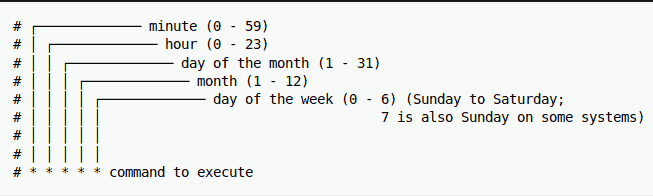
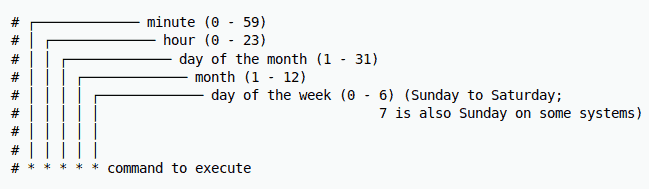
Deploying to gh-pages from @ 2425-5bhif-wmc/01-referate-oliver-420@3ef59f81ffe44e45f590109b965bc49a3b232082 🚀

Changed region(s): [[0.0, 0.0794, 1.0, 0.9259], [0.0, 0.0, 1.0, 0.0265], [0.3698, 0.0794, 0.4314, 0.1587]]

diff --git a/index.html b/index.html
@@ -578,12 +578,11 @@ pre.rouge .gs {
 </li>
 <li><a href="#_cron_jobs">2. Cron jobs</a>
 <ul class="sectlevel2">
-<li><a href="#_definition">2.1. Definition</a></li>
-<li><a href="#_typische_anwendungsfälle">2.2. Typische Anwendungsfälle</a></li>
+<li><a href="#_was_ist_das">2.1. Was ist das?</a></li>
+<li><a href="#_wie_funktionieren_cron_jobs">2.2. Wie funktionieren Cron jobs?</a></li>
 <li><a href="#_vorteile_nachteile">2.3. Vorteile &amp; Nachteile</a></li>
-<li><a href="#_funktionsweise">2.4. Funktionsweise</a></li>
+<li><a href="#_typische_anwendungsfälle">2.4. Typische Anwendungsfälle</a></li>
 <li><a href="#_cronjob_syntax">2.5. Cronjob Syntax</a></li>
-<li><a href="#_beispiele">2.6. Beispiele</a></li>
 </ul>
 </li>
 <li><a href="#_cronjobs_und_postgresql">3. Cronjobs und PostgreSQL</a>
@@ -909,7 +908,7 @@ Andere Formate können mit der Option <code>-F</code> angegeben werden.
 <h2 id="_cron_jobs"><a class="anchor" href="#_cron_jobs"></a>2. Cron jobs</h2>
 <div class="sectionbody">
 <div class="sect2">
-<h3 id="_definition"><a class="anchor" href="#_definition"></a>2.1. Definition</h3>
+<h3 id="_was_ist_das"><a class="anchor" href="#_was_ist_das"></a>2.1. Was ist das?</h3>
 <div class="paragraph">
 <p>Cron-Jobs sind zeitgesteuerte Aufgaben, die auf Unix- oder Linux-Systemen im Hintergrund automatisch ausgeführt werden.
 Sie werden über den Cron-Dienst verwaltet und können so konfiguriert werden, dass sie Skripte, Befehle oder Programme
@@ -918,45 +917,57 @@ die Crontab-Datei.</p>
 </div>
 </div>
 <div class="sect2">
-<h3 id="_typische_anwendungsfälle"><a class="anchor" href="#_typische_anwendungsfälle"></a>2.2. Typische Anwendungsfälle</h3>
+<h3 id="_wie_funktionieren_cron_jobs"><a class="anchor" href="#_wie_funktionieren_cron_jobs"></a>2.2. Wie funktionieren Cron jobs?</h3>
 <div class="ulist">
 <ul>
 <li>
-<p>Automatisierte Backups</p>
+<p>Crontab-Dateien</p>
 <div class="ulist">
 <ul>
 <li>
-<p>Regelmäßiges Sichern von Datenbanken, Dateien oder Servern.</p>
+<p>Diese Dateien sind die 'Konfiguration' für Cron-Jobs.</p>
+</li>
+<li>
+<p>Jeder Benutzer hat eine Crontab-Datei, in der die einzelnen Aufgaben definiert werden.</p>
 </li>
 </ul>
 </div>
 </li>
 <li>
-<p>Systemwartung</p>
+<p>Cron-Dienst</p>
 <div class="ulist">
 <ul>
 <li>
-<p>Aufgaben wie das Leeren von temporären Dateien, das Rotieren von Logs oder das Aktualisieren von Paketen.</p>
+<p>Ein Cron-Daemon läuft die ganze Zeit im Hintergrund und überwacht die Crontab-Dateien aller Benutzer.</p>
+</li>
+<li>
+<p>Dieser Daemon führt die definierten Aufgaben zum gegebenen Zeitplan aus.</p>
 </li>
 </ul>
 </div>
 </li>
 <li>
-<p>Datenverarbeitung</p>
+<p>Zeitangaben</p>
 <div class="ulist">
 <ul>
 <li>
-<p>Verarbeitung oder Synchronisierung von Daten wie das Abrufen von APIs, das Erstellen von Log-Daten oder das Generieren von Berichten.</p>
+<p>Die verwendete Zeit von Cron ist die des Systems, auf dem es läuft.</p>
+</li>
+<li>
+<p>Cron überprüft minütlich, ob eine Aufgabe ausgeführt werden muss.</p>
 </li>
 </ul>
 </div>
 </li>
 <li>
-<p>Benachrichtigungen</p>
+<p>Ausführung</p>
 <div class="ulist">
 <ul>
 <li>
-<p>Versenden von Erinnerungen, Alerts oder Zusammenfassungen.</p>
+<p>Befehle oder Skripts werden zur festgelegten Zeit oder in festgelegten Intervallen ausgeführt.</p>
+</li>
+<li>
+<p>Die Ausgabe kann man in einer Log-Datei speichern oder per E-Mail versenden, sofern konfiguriert.</p>
 </li>
 </ul>
 </div>
@@ -966,6 +977,10 @@ die Crontab-Datei.</p>
 </div>
 <div class="sect2">
 <h3 id="_vorteile_nachteile"><a class="anchor" href="#_vorteile_nachteile"></a>2.3. Vorteile &amp; Nachteile</h3>
+<div class="paragraph">
+<p>Cron-Jobs sind das A&amp;O für die Automatisierung von Aufgaben, jedoch gibt es neben den
+zahlreichen Vorteilen auch einige Nachteile.</p>
+</div>
 <div class="sect3">
 <h4 id="_vorteile"><a class="anchor" href="#_vorteile"></a>2.3.1. Vorteile</h4>
 <div class="ulist">
@@ -1062,57 +1077,48 @@ die Crontab-Datei.</p>
 </div>
 </div>
 <div class="sect2">
-<h3 id="_funktionsweise"><a class="anchor" href="#_funktionsweise"></a>2.4. Funktionsweise</h3>
+<h3 id="_typische_anwendungsfälle"><a class="anchor" href="#_typische_anwendungsfälle"></a>2.4. Typische Anwendungsfälle</h3>
+<div class="paragraph">
+<p>Cron Jobs werden beinahe überall eingesetzt, wo regelmäßige oder zeitgesteuerte Aufgaben anfallen, wie zum Beispiel:</p>
+</div>
 <div class="ulist">
 <ul>
 <li>
-<p>Cron-Dienst</p>
+<p>Automatisierte Backups</p>
 <div class="ulist">
 <ul>
 <li>
-<p>Ein Cron-Daemon läuft die ganze Zeit im Hintergrund und überwacht die Crontab-Dateien aller Benutzer.</p>
-</li>
-<li>
-<p>Dieser Daemon führt die definierten Aufgaben zum gegebenen Zeitplan aus.</p>
+<p>Regelmäßiges Sichern von Datenbanken, Dateien oder Servern.</p>
 </li>
 </ul>
 </div>
 </li>
 <li>
-<p>Crontab-Dateien</p>
+<p>Systemwartung</p>
 <div class="ulist">
 <ul>
 <li>
-<p>Diese Dateien sind die 'Konfiguration' für Cron-Jobs.</p>
-</li>
-<li>
-<p>Jeder Benutzer hat eine Crontab-Datei, in der die einzelnen Aufgaben definiert werden.</p>
+<p>Aufgaben wie das Leeren von temporären Dateien, das Rotieren von Logs oder das Aktualisieren von Paketen.</p>
 </li>
 </ul>
 </div>
 </li>
 <li>
-<p>Zeitangaben</p>
+<p>Datenverarbeitung</p>
 <div class="ulist">
 <ul>
 <li>
-<p>Die verwendete Zeit von Cron ist die des Systems, auf dem es läuft.</p>
-</li>
-<li>
-<p>Cron überprüft minütlich, ob eine Aufgabe ausgeführt werden muss.</p>
+<p>Verarbeitung oder Synchronisierung von Daten wie das Abrufen von APIs, das Erstellen von Log-Daten oder das Generieren von Berichten.</p>
 </li>
 </ul>
 </div>
 </li>
 <li>
-<p>Ausführung</p>
+<p>Benachrichtigungen</p>
 <div class="ulist">
 <ul>
 <li>
-<p>Befehle oder Skripts werden zur festgelegten Zeit oder in festgelegten Intervallen ausgeführt.</p>
-</li>
-<li>
-<p>Die Ausgabe kann man in einer Log-Datei speichern oder per E-Mail versenden, sofern konfiguriert.</p>
+<p>Versenden von Erinnerungen, Alerts oder Zusammenfassungen.</p>
 </li>
 </ul>
 </div>
@@ -1122,15 +1128,9 @@ die Crontab-Datei.</p>
 </div>
 <div class="sect2">
 <h3 id="_cronjob_syntax"><a class="anchor" href="#_cronjob_syntax"></a>2.5. Cronjob Syntax</h3>
-<div class="imageblock">
-<div class="content">
-<img src="images/images/cron_syntax.png" alt="cron syntax">
+<div class="paragraph">
+<p><span class="image"><img src="images/cron_syntax.png" alt="cron syntax"></span></p>
 </div>
-</div>
-</div>
-<div class="sect2">
-<h3 id="_beispiele"><a class="anchor" href="#_beispiele"></a>2.6. Beispiele</h3>
-
 </div>
 </div>
 </div>
@@ -1193,7 +1193,7 @@ die Crontab-Datei.</p>
 </div>
 <div id="footer">
 <div id="footer-text">
-Last updated 2024-12-11 21:09:56 UTC
+Last updated 2024-12-11 21:31:14 UTC
 </div>
 </div>
 </body>

diff --git a/sysspec.html b/sysspec.html
@@ -587,7 +587,7 @@ body.book #toc,body.book #preamble,body.book h1.sect0,body.book .sect1>h2{page-b
 <div id="footer">
 <div id="footer-text">
 Version 1.0.0<br>
-Last updated 2024-12-11 21:09:56 UTC
+Last updated 2024-12-11 21:31:14 UTC
 </div>
 </div>
 </body>

diff --git a/minutes-of-meeting.html b/minutes-of-meeting.html
@@ -610,7 +610,7 @@ Ev. mit Erläuterungen</p>
 <div id="footer">
 <div id="footer-text">
 Version 1.0<br>
-Last updated 2024-12-11 21:09:56 UTC
+Last updated 2024-12-11 21:31:14 UTC
 </div>
 </div>
 </body>

diff --git a/demo.html b/demo.html
@@ -784,7 +784,7 @@ A -left-&gt; B
 <div id="footer">
 <div id="footer-text">
 Version 1.0<br>
-Last updated 2024-12-11 21:09:56 UTC
+Last updated 2024-12-11 21:31:14 UTC
 </div>
 </div>
 </body>
